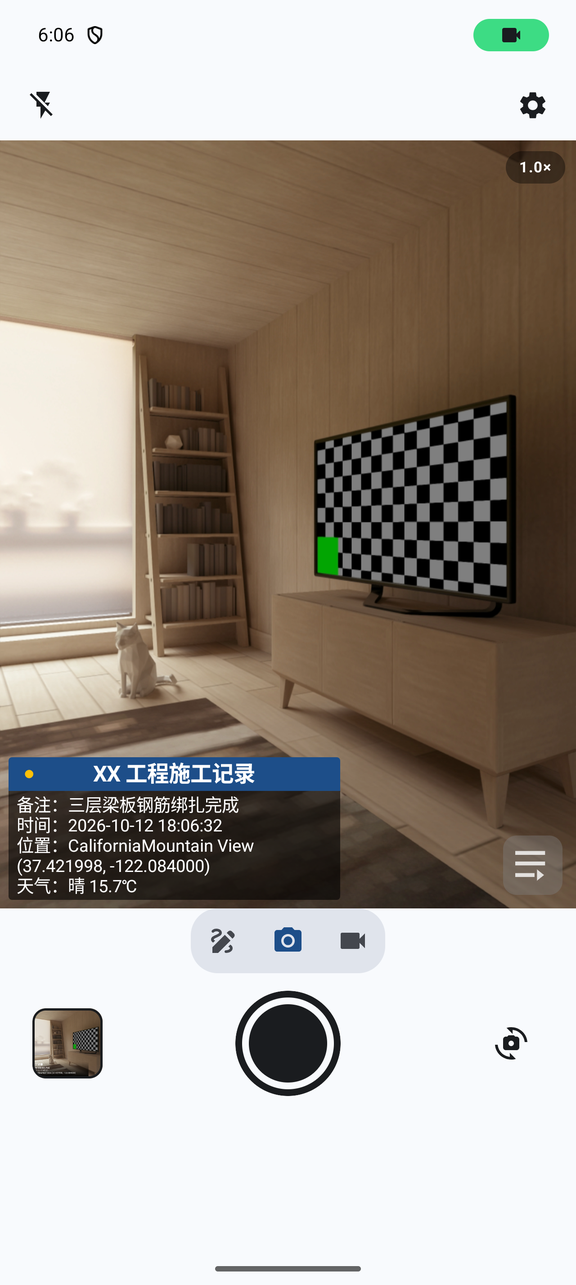
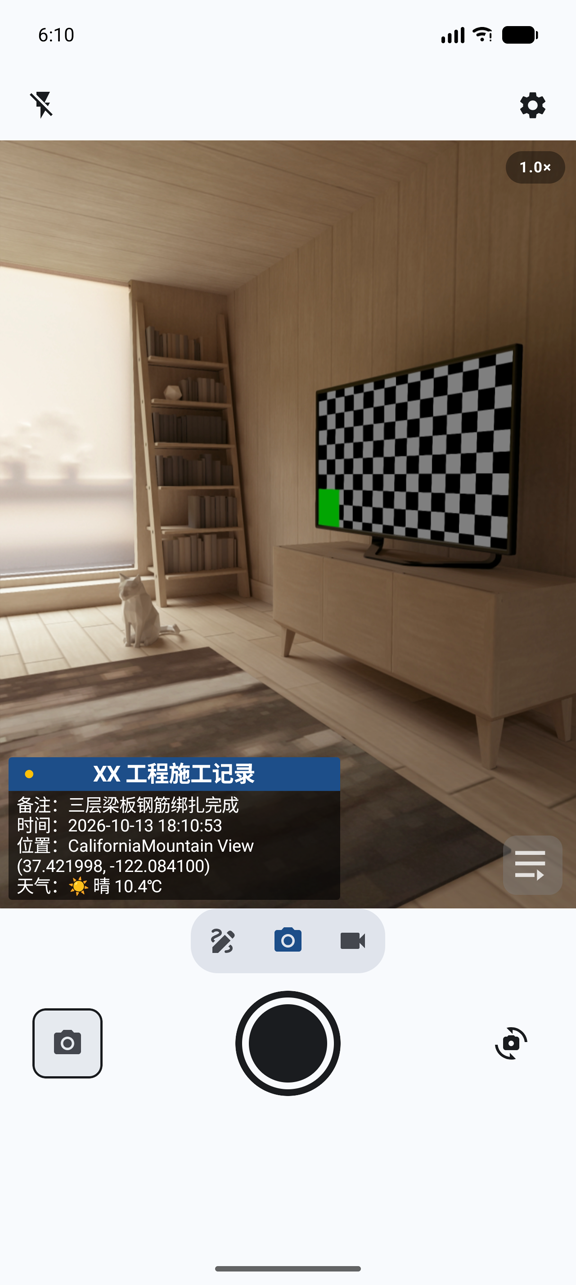
v0.6.2 发版：天气 Emoji（v129，天气词首位扁平 emoji：晴/多云/阴/雨/雪/雷/雾等，开关入天气字段编辑对话框、默认开，原生7+网页3模板同规则）；模板选项卡记录点下方空白修复（v130，隐藏子选项不再加间隔）；versionCode 130、README 直链/特性更新、模拟器截图重拍（含 emoji）

diff --git a/app/src/main/java/com/engcamera/watermark/WatermarkRenderer.kt b/app/src/main/java/com/engcamera/watermark/WatermarkRenderer.kt
@@ -16,7 +16,9 @@ import com.engcamera.data.FieldType
 import com.engcamera.data.TemplateBackend
 import com.engcamera.data.WatermarkField
 import com.engcamera.data.WatermarkState
+import com.engcamera.data.WatermarkStyle
 import com.engcamera.data.WatermarkTemplates
+import com.engcamera.data.weatherEmojiPrefix
 import kotlin.math.roundToInt
 
 /** 水印边界安全边距比例（画面宽度的约 1.5%，至少 4px） */
@@ -126,9 +128,9 @@ object WatermarkRenderer {
         val textWidth = (blockWidth - pad * 2).toInt().coerceAtLeast(1)
         val enabled = state.fields.filter { it.enabled }
         val title = enabled.firstOrNull { it.isTitle }
-            ?.let { newLayout(displayText(it, dynamic), titlePaint, textWidth, if (titleCenter) Layout.Alignment.ALIGN_CENTER else Layout.Alignment.ALIGN_NORMAL) }
+            ?.let { newLayout(displayText(it, dynamic, style), titlePaint, textWidth, if (titleCenter) Layout.Alignment.ALIGN_CENTER else Layout.Alignment.ALIGN_NORMAL) }
         val rows = enabled.filter { !it.isTitle }.map { f ->
-            val text = if (f.label.isBlank()) displayText(f, dynamic) else "${f.label}：${displayText(f, dynamic)}"
+            val text = if (f.label.isBlank()) displayText(f, dynamic, style) else "${f.label}：${displayText(f, dynamic, style)}"
             newLayout(text, bodyPaint, textWidth)
         }
         return Texts(title, rows, titlePaint, bodyPaint, pad, blockWidth, corner)
@@ -291,7 +293,7 @@ object WatermarkRenderer {
         val enabled = state.fields.filter { it.enabled }
         if (enabled.isEmpty()) return emptyBlock()
         val text = enabled.joinToString("  ·  ") { f ->
-            val v = displayText(f, dynamic)
+            val v = displayText(f, dynamic, style)
             if (f.label.isBlank()) v else "${f.label} $v"
         }
         val textWidth = (blockWidth - width * style.paddingRatio * 2).toInt().coerceAtLeast(1)
@@ -550,12 +552,20 @@ object WatermarkRenderer {
 private fun recColorGlow(rec: Int): Int = (rec and 0x00FFFFFF) or (0x59 shl 24)
 
     /** 字段当前显示文本：位置/时间标签有值（手动编辑）则优先生效，空则用拍照瞬间动态值。 */
-    private fun displayText(f: WatermarkField, dynamic: DynamicValues): String = when (f.type) {
-        FieldType.DATETIME -> f.value.ifBlank { dynamic.time }
-        FieldType.LOCATION -> f.value.ifBlank { dynamic.location.ifBlank { "未获取定位" } }
-        FieldType.COUNT -> f.value.filter { it.isDigit() }.ifBlank { "1" }
-        FieldType.WEATHER -> f.value.ifBlank { dynamic.weather.ifBlank { "未获取天气" } }
-        else -> f.value
+    private fun displayText(f: WatermarkField, dynamic: DynamicValues, style: WatermarkStyle): String {
+        val text = when (f.type) {
+            FieldType.DATETIME -> f.value.ifBlank { dynamic.time }
+            FieldType.LOCATION -> f.value.ifBlank { dynamic.location.ifBlank { "未获取定位" } }
+            FieldType.COUNT -> f.value.filter { it.isDigit() }.ifBlank { "1" }
+            FieldType.WEATHER -> f.value.ifBlank { dynamic.weather.ifBlank { "未获取天气" } }
+            else -> f.value
+        }
+        // 天气 emoji 开关：命中天气词时在文本首位加扁平 emoji（原生/网页模板同规则）
+        return if (f.type == FieldType.WEATHER && style.weatherEmoji) {
+            weatherEmojiPrefix(text) + text
+        } else {
+            text
+        }
     }
 
     private fun newLayout(

diff --git a/app/src/main/java/com/engcamera/watermark/TemplateHtml.kt b/app/src/main/java/com/engcamera/watermark/TemplateHtml.kt
@@ -5,6 +5,7 @@ import com.engcamera.data.FieldType
 import com.engcamera.data.WatermarkField
 import com.engcamera.data.WatermarkState
 import com.engcamera.data.WatermarkTemplate
+import com.engcamera.data.weatherEmojiPrefix
 
 /**
  * 网页模板 HTML 工具：占位符替换、样式注入、导入解析、导出组装。
@@ -25,18 +26,22 @@ object TemplateHtml {
     private const val EXTRA_MARKER = "<div data-extra></div>"
 
     /** 单字段当前显示文本（与 WatermarkRenderer.displayText 同规则，不回退标签） */
-    private fun fieldValue(f: WatermarkField, dynamic: DynamicValues): String = when (f.type) {
-        FieldType.DATETIME -> f.value.ifBlank { dynamic.time }
-        FieldType.LOCATION -> f.value.ifBlank { dynamic.location.ifBlank { "未获取定位" } }
-        FieldType.COUNT -> f.value.filter { it.isDigit() }.ifBlank { "1" }
-        FieldType.WEATHER -> f.value.ifBlank { dynamic.weather.ifBlank { "未获取天气" } }
-        else -> f.value
+    private fun fieldValue(f: WatermarkField, dynamic: DynamicValues, emoji: Boolean): String {
+        val text = when (f.type) {
+            FieldType.DATETIME -> f.value.ifBlank { dynamic.time }
+            FieldType.LOCATION -> f.value.ifBlank { dynamic.location.ifBlank { "未获取定位" } }
+            FieldType.COUNT -> f.value.filter { it.isDigit() }.ifBlank { "1" }
+            FieldType.WEATHER -> f.value.ifBlank { dynamic.weather.ifBlank { "未获取天气" } }
+            else -> f.value
+        }
+        // 天气 emoji 开关：文本值随开关变化，cacheKey 的 values 部分自动失效触发重渲
+        return if (f.type == FieldType.WEATHER && emoji) weatherEmojiPrefix(text) + text else text
     }
 
     /** 字段当前文本（取该类型第一个"启用"的字段；关闭的字段显示标签兜底） */
     fun valueOf(type: FieldType, label: String, state: WatermarkState, dynamic: DynamicValues): String {
         val f = state.fields.firstOrNull { it.type == type && it.enabled } ?: return label
-        return fieldValue(f, dynamic).ifBlank { label }
+        return fieldValue(f, dynamic, state.style.weatherEmoji).ifBlank { label }
     }
 
     fun escape(s: String): String = s
@@ -98,7 +103,7 @@ object TemplateHtml {
         }
         if (extra.isEmpty()) return body.replace(EXTRA_MARKER, "")
         val rows = extra.joinToString("") { f ->
-            val text = escape(fieldValue(f, dynamic))
+            val text = escape(fieldValue(f, dynamic, state.style.weatherEmoji))
             if (f.label.isBlank()) "<div>$text</div>" else "<div>${escape(f.label)}：$text</div>"
         }
         return if (body.contains(EXTRA_MARKER)) body.replace(EXTRA_MARKER, rows) else body + rows

diff --git a/app/src/main/java/com/engcamera/editor/EditorScreen.kt b/app/src/main/java/com/engcamera/editor/EditorScreen.kt
@@ -349,6 +349,8 @@ fun EditorScreen(onBack: () -> Unit) {
             autoLocation = autoLocation,
             autoWeather = weatherText,
             currentTime = dynamic.time,
+            weatherEmojiOn = state.style.weatherEmoji,
+            onWeatherEmojiChange = { vm.setTemplateSwitch("weatherEmoji", it) },
             onRefreshLocation = { vm.refreshLocation() },
             onRefreshWeather = { vm.refreshWeather() },
             onDismiss = { editingField = null },
@@ -502,6 +504,8 @@ private fun EditFieldDialog(
     autoLocation: String,
     autoWeather: String,
     currentTime: String,
+    weatherEmojiOn: Boolean,
+    onWeatherEmojiChange: (Boolean) -> Unit,
     onRefreshLocation: () -> Unit,
     onRefreshWeather: () -> Unit,
     onDismiss: () -> Unit,
@@ -579,6 +583,23 @@ private fun EditFieldDialog(
                     },
                 )
                 if (isWeather) {
+                    // 天气 emoji 开关：挂在天气字段编辑内（用户拍板 2026-10-13，不进模板选项卡），即时生效
+                    Row(
+                        Modifier.fillMaxWidth(),
+                        horizontalArrangement = Arrangement.SpaceBetween,
+                        verticalAlignment = Alignment.CenterVertically,
+                    ) {
+                        Text(
+                            "天气 Emoji（如 ☀ 晴 26℃）",
+                            style = MaterialTheme.typography.bodySmall,
+                            color = MaterialTheme.colorScheme.onSurfaceVariant,
+                            modifier = Modifier.weight(1f),
+                        )
+                        Switch(
+                            checked = weatherEmojiOn,
+                            onCheckedChange = onWeatherEmojiChange,
+                        )
+                    }
                     Text(
                         "自动天气：${if (autoWeather.isBlank()) "未获取" else autoWeather}",
                         style = MaterialTheme.typography.bodySmall,

diff --git a/app/src/main/java/com/engcamera/data/Models.kt b/app/src/main/java/com/engcamera/data/Models.kt
@@ -50,7 +50,25 @@ data class WatermarkStyle(
     val borderWidth: Float = 1f,              // 边框卡片：边框粗细倍数（1=标准线宽）
     val gradientColor: Long = 0xFF000000L,    // 渐变底栏：渐变基色（顶部透明→底部此色）
     val webScale: Float = 0.8f,               // 网页模板整体缩放（1=模板原始大小，默认 0.8 防超屏幕宽）
+    val weatherEmoji: Boolean = true,         // 天气文本首位扁平 emoji（如 ☀ 晴 26℃），默认开
 )
+
+/**
+ * 天气文本 → 扁平 emoji 前缀（系统 Noto Color Emoji 即扁平风格）。
+ * 按词匹配，先具体后宽泛（雷阵雨先于雨、阵雨/毛毛雨先于雨、多云先于晴）；
+ * 没匹配上（含"未获取天气"）不加。手动编辑的天气值同样生效。
+ */
+fun weatherEmojiPrefix(text: String): String = when {
+    "雷" in text -> "⛈ "
+    "雪" in text || "雹" in text -> "🌨 "
+    "阵雨" in text || "毛毛雨" in text -> "🌦 "
+    "雨" in text -> "🌧 "
+    "雾" in text || "霾" in text || "沙" in text || "尘" in text -> "🌫 "
+    "多云" in text -> "⛅ "
+    "阴" in text -> "☁ "
+    "晴" in text -> "☀ "
+    else -> ""
+}
 
 /** 水印整体状态（对应计划书 6.3） */
 @Serializable

diff --git a/app/src/main/java/com/engcamera/editor/TemplateSelector.kt b/app/src/main/java/com/engcamera/editor/TemplateSelector.kt
@@ -569,7 +569,8 @@ fun TemplateOptionsCard(
                                 else -> SliderOptionRow(opt, style, onScalar)
                             }
                         }
-                        Spacer(Modifier.height(6.dp))
+                        // 记录点子选项收进组内不渲染，间隔也不留（否则记录点下方空出一截）
+                        if (opt.key !in recSubKeys) Spacer(Modifier.height(6.dp))
                     }
                 }
             }

diff --git a/app/src/main/java/com/engcamera/editor/EditorViewModel.kt b/app/src/main/java/com/engcamera/editor/EditorViewModel.kt
@@ -74,6 +74,7 @@ class EditorViewModel(app: Application) : AndroidViewModel(app),
     fun setTemplateSwitch(key: String, on: Boolean) = repo.update { s ->
         val st = when (key) {
             "recDot" -> s.style.copy(recDot = on)
+            "weatherEmoji" -> s.style.copy(weatherEmoji = on)
             else -> s.style
         }
         s.copy(style = st)

diff --git a/README.md b/README.md
@@ -5,12 +5,12 @@
 <h1 align="center">engCamera · 工程水印相机 · engineering Camera</h1>
 
 <p align="center">
-  <a href="https://github.com/zy8270/engCamera/releases/download/v0.6.1/engCamera-v0.6.1.apk">⬇ 下载安卓版 Release</a>
+  <a href="https://github.com/zy8270/engCamera/releases/download/v0.6.2/engCamera-v0.6.2.apk">⬇ 下载安卓版 Release</a>
 </p>
 
 一个自用向的 Android 工程水印相机：拍照 / 录像前实时预览水印，成片直接把水印**烧录**进文件；也可以给相册里已有的图片批量补加水印；多工地用**工程组**一键切换整套水印。无广告、无登录、无云同步。
 
-> 当前版本：v0.6.1（修订记录见 [交付说明](交付说明.md)）
+> 当前版本：v0.6.2（修订记录见 [交付说明](交付说明.md)）
 
 ## 界面预览
 
@@ -43,7 +43,7 @@
 - **工程组**：多套水印配置一键切换（新建=复制当前、重命名、批量删除、一键重置），编辑器标题实时显示当前工程；**相机预览右下角常驻快捷入口**——多工地不用进编辑器直接换水印
 - **可配置字段**：工程名称（标题）、时间、位置、天气、计数、备注、自定义字段；可增删、拖动排序、启用隐藏；时间/位置/天气支持手动定格（标"自定义"标签）并可一键重置回自动
 - **自动定位 + 中文地址**：多机型兼容（系统 Geocoder 整行 → 结构化字段拼接 省/市/区/路/地点 → 在线反查三级兜底），无网降级坐标；地址/天气持久化缓存，重启不清空
-- **自动天气**：随定位获取（如"晴 26℃"），支持手动填写与刷新
+- **自动天气 + Emoji**：随定位获取（如"☀ 晴 26℃"），天气词自动配扁平 emoji（晴/多云/阴/雨/雪/雷/雾…），可在天气字段编辑内开关；支持手动填写与刷新
 - **计数字段**：拍照保存后自动 +1（默认关，可开启）
 
 ### 相册与批处理

diff --git a/交付说明.md b/交付说明.md
@@ -1,6 +1,11 @@
-# 交付说明（v0.6.1，2026-10-13 发布）
+# 交付说明（v0.6.2，2026-10-13 发布）
 
 按《水印相机.md》v0.3 实现，主体功能（拍照/录像水印、编辑器、相册、给已有图片加水印、工程组、天气）已在真机（Redmi Note 12 Turbo，Android 15 / MIUI）验证。**扫码功能本期未实现，已从功能范围移除。**
+
+## v0.6.2 修订（2026-10-13 发布，versionCode 129 ~ 130）
+
+- **天气 Emoji（v129）**：天气文本首位自动加扁平风格 emoji——☀晴 / ⛅多云 / ☁阴 / 🌧雨 / 🌦阵雨·毛毛雨 / ⛈雷阵雨 / 🌨雪·冰雹 / 🌫雾·霾·沙尘（按词匹配、先具体后宽泛，没匹配上如"未获取天气"则不加）。**开关在天气字段的编辑对话框内**（编辑器点"天气"行），默认开、即时生效；原生 7 款与网页 3 款模板同规则，手动填写的天气值同样生效。值存 `WatermarkStyle.weatherEmoji`（`Models.kt` 的 `weatherEmojiPrefix()` 映射），随工程/模板导出导入，旧数据缺字段按默认开处理；emoji 在文本层拼接，网页模板缓存键随文本变化自动失效重渲。
+- **模板选项卡空白修复（v130）**：经典工程蓝选项卡"记录点"组下方空出一截——记录点 4 个子选项（大小/左边距/光晕/颜色）收进组内不渲染，但循环里每项后的 6dp 间隔 Spacer 照加（4×6dp≈24dp 空白）；改为仅实际渲染的选项加间隔（v120 引入的老问题，本版随截图重拍暴露）。
 
 ## v0.6.1 修订（2026-10-13 发布，versionCode 122 ~ 128）
 
